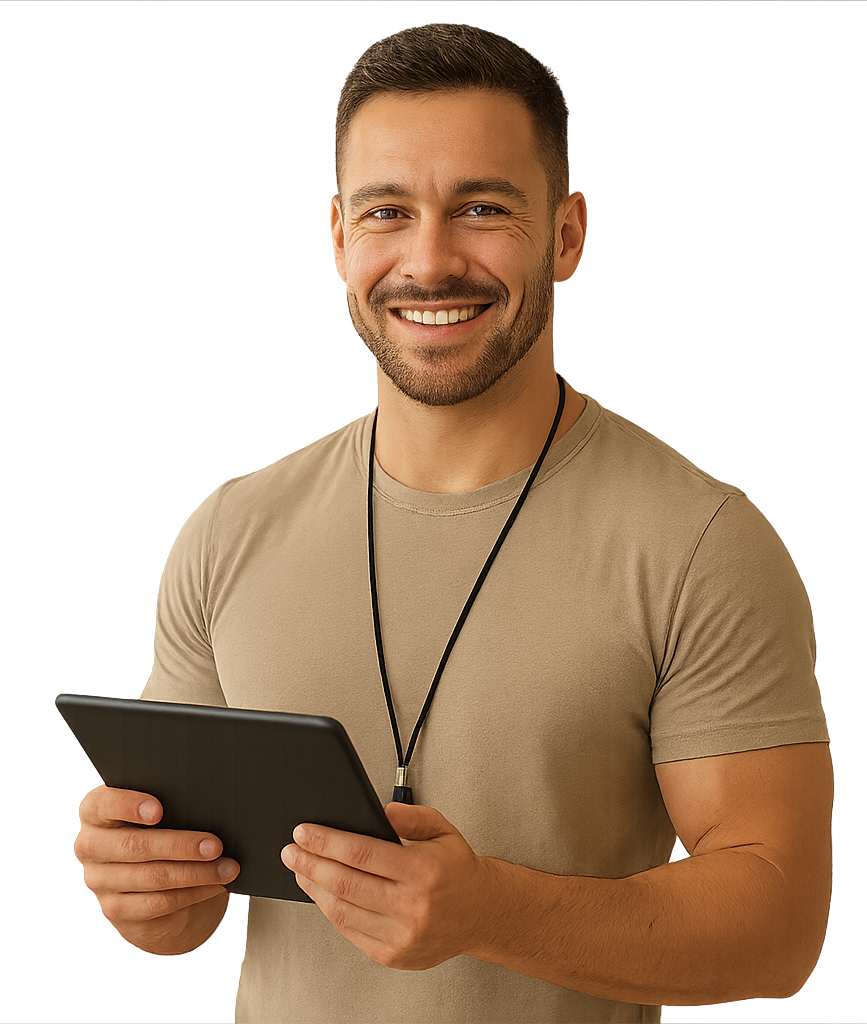
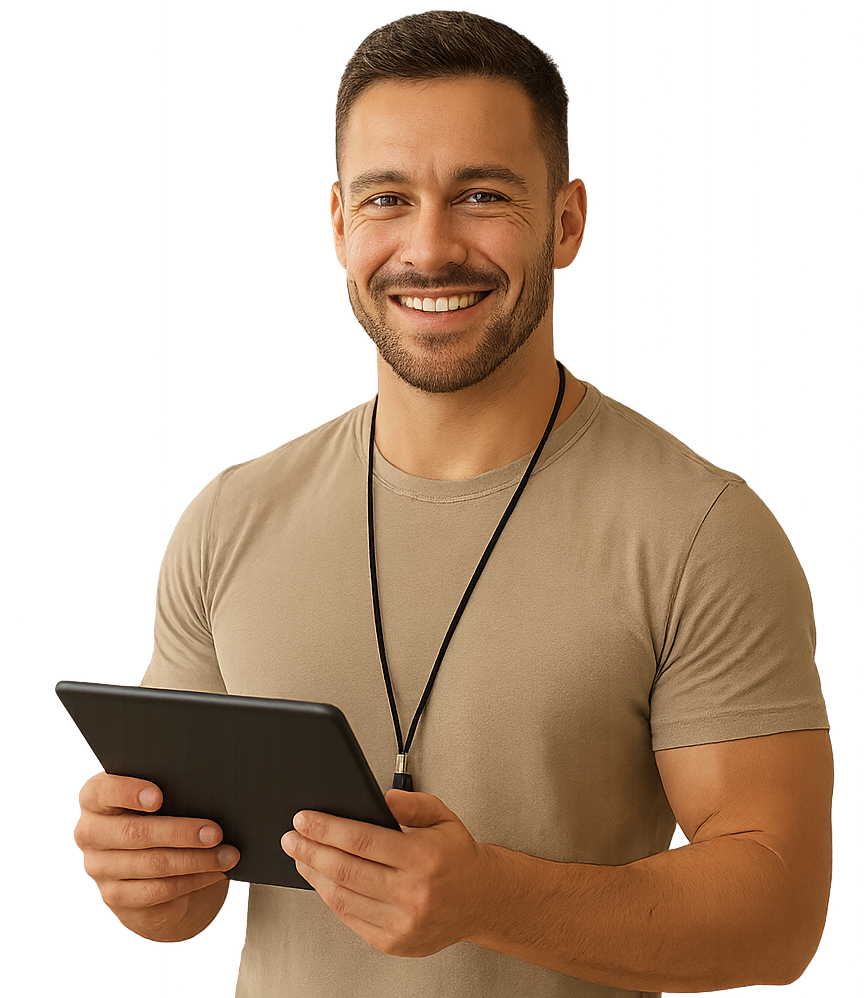
fix(layout): adjust max width

diff --git a/src/app/(public)/functions/page.tsx b/src/app/(public)/functions/page.tsx
@@ -12,14 +12,14 @@ export default function Functions() {
   return (
     <div>
       <div className="flex flex-col w-full bg-[url('/backgroundLogo.svg')] items-center justify-start bg-cover bg-no-repeat bg-right gap-2">
-        <div className="flex flex-col gap-6 w-full py-3 md:py-5 bg-[url('/personal.png')] bg-contain bg-no-repeat bg-right">
-          <div className="flex flex-col w-38 md:w-200 font-bold text-base md:text-3xl lg:text-5xl 2xl:text-7xl">
+        <div className="flex flex-col gap-6 w-full py-3 md:py-5 bg-[url('/personal.png')] bg-size-[60%] md:bg-size-[38%] bg-no-repeat bg-bottom-right">
+          <div className="flex flex-col w-60 md:w-200 font-bold text-base md:text-3xl lg:text-5xl 2xl:text-7xl">
             <span>
               Potencialize seus treinos e transforme o acompanhamento dos seus
               alunos
             </span>
           </div>
-          <div className="flex flex-col w-38 md:w-200 italic text-xs md:text-xl lg:text-2xl 2xl:text-4xl">
+          <div className="flex flex-col w-48 md:w-200 italic text-xs md:text-xl lg:text-2xl 2xl:text-4xl">
             <span>
               Planeje, acompanhe e motive seus alunos com uma plataforma
               inteligente feita para educadores físicos que buscam eficiência e
